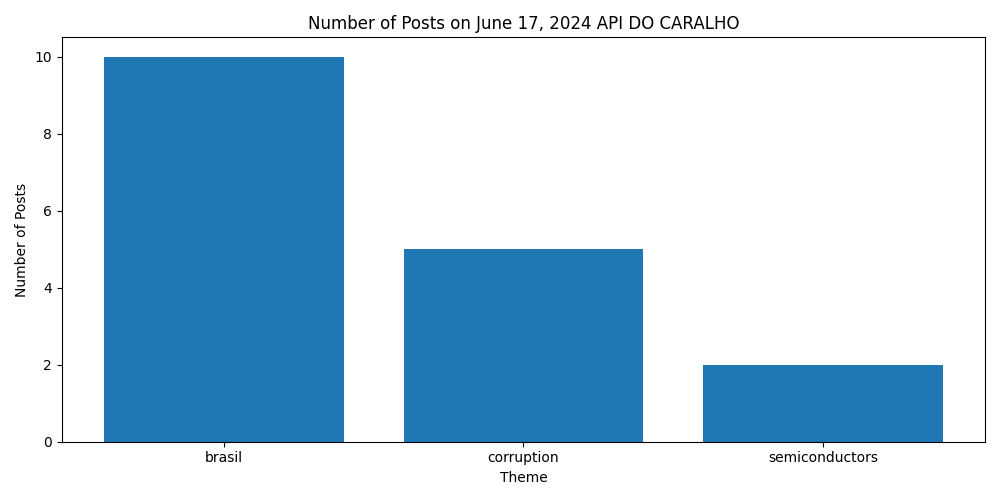
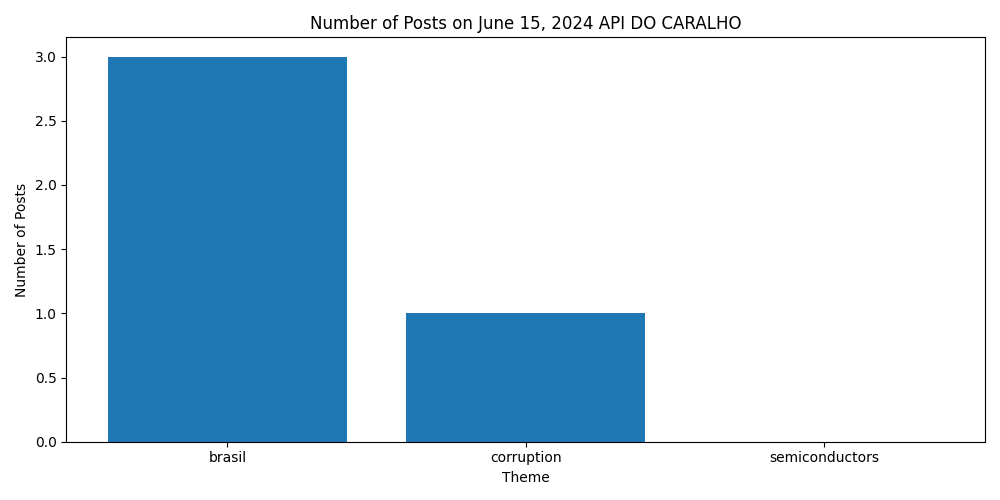
altera descrição

diff --git a/teste3.py b/teste3.py
@@ -3,7 +3,7 @@ import json
 from flask import Flask, request, jsonify
 from collections import Counter
 import matplotlib
-matplotlib.use('Agg')  # Usar o backend 'Agg' para evitar problemas de GUI
+matplotlib.use('Agg')  
 import matplotlib.pyplot as plt
 
 app = Flask(__name__)
@@ -11,7 +11,7 @@ app = Flask(__name__)
 def count_posts_by_day(json_data, target_day):
     counts = Counter()
     for result in json_data['results']:
-        date = result['publishedAt'][0] 
+        date = result['publishedAt']
         if date == target_day:
             counts[date] += 1
     return counts
@@ -25,7 +25,6 @@ def fetch_news():
     themes = ['brasil', 'corruption', 'semiconductors']
     all_counts = {theme: 0 for theme in themes}
 
-    # Percorrer todos os temas e arquivos de páginas
     for theme in themes:
         page_number = 1
         while True:
@@ -56,7 +55,7 @@ def fetch_news():
     plt.bar(themes, counts)
     plt.xlabel('Theme')
     plt.ylabel('Number of Posts')
-    plt.title(f'Number of Posts on {day} API DO CARALHO')
+    plt.title(f'Number of Posts on {day}')
     plt.tight_layout()
     plt.savefig('output/histogram.png')
 
